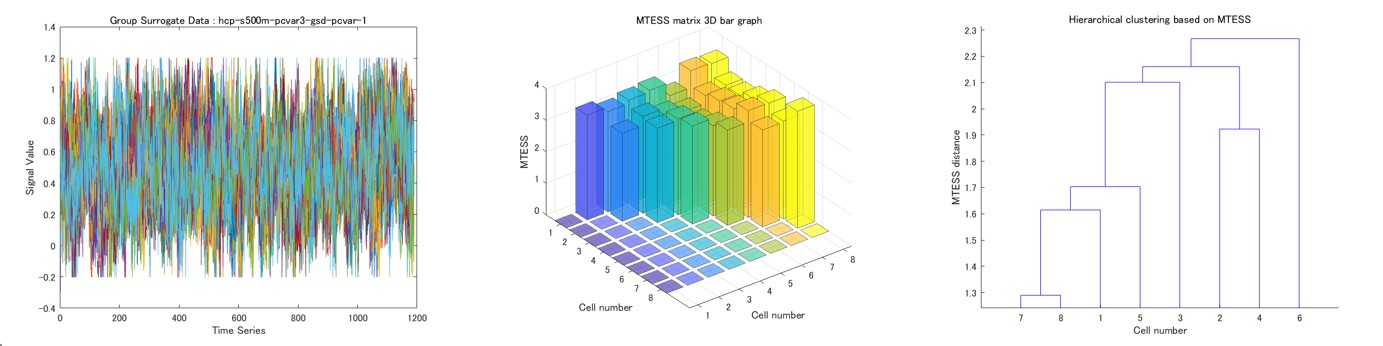
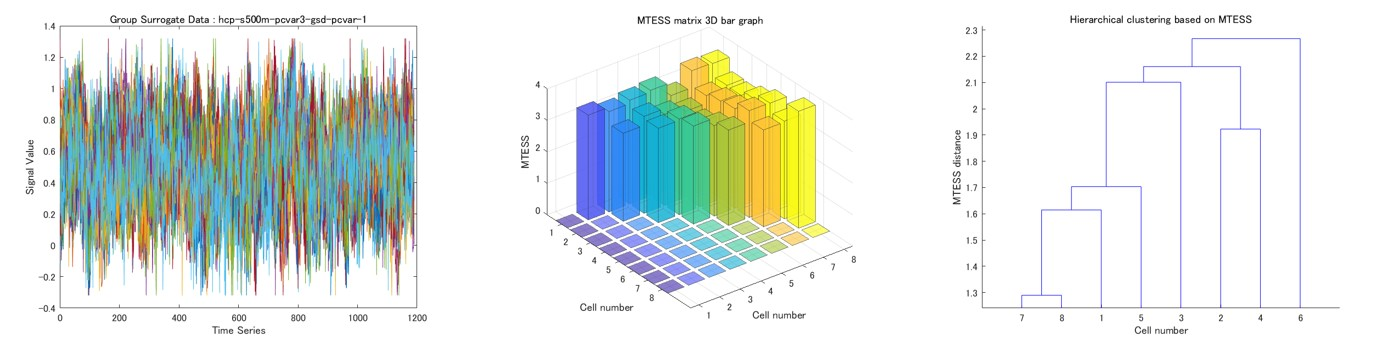
fixed range option.

diff --git a/mtess.m b/mtess.m
@@ -25,7 +25,7 @@ function mtess(varargin)
     % init command line input
     handles.commandError = 0;
     handles.csvFiles = {};
-    handles.range = NaN;
+    handles.range = 'auto';
     handles.nDft = 100;
     handles.pcc = 0;
     handles.cclag = NaN;
@@ -52,8 +52,7 @@ function mtess(varargin)
         end
         switch varargin{i}
             case {'--range'}
-                str = strsplit(varargin{i+1},':');
-                handles.range = [str2num(str{1}) str2num(str{2})];
+                handles.range = varargin{i+1};
                 i = i + 1;
             case {'--ndft'}
                 handles.nDft = str2num(varargin{i+1});
@@ -136,7 +135,7 @@ function showUsage()
     global exePath;
     global exeName;
     disp(['usage: ' exeName ' [options] file1.mat file2.mat ...']);
-    disp('  --range n1:n2       value range [n1, n2] for normalized mean and std dev (default:min and max of input data)');
+    disp('  --range type        input group value range (default:"auto", sigma:<num>, full:<num> or <min>:<max>)');
     disp('  --ndft num          DFT sampling <number> (even number) (default: 100)');
     disp('  --pcc type          Partial Cross-Correlation algorithm 0:auto, 1:PCC, 2:SV-PCC, 3:PC-PCC (dafault:0)');
     disp('  --cclag num         time lag <num> for Cross Correlation (default:8)');
@@ -231,8 +230,6 @@ function processInputFiles(handles)
     
     % check each multivariate time-series
     nodeNum = size(CX{1},1);
-    xmax = NaN;
-    xmin = NaN;
     for i = 1:length(CX)
         X = CX{i};
         
@@ -242,13 +239,6 @@ function processInputFiles(handles)
             CX{i} = X;
         end
 
-        if isnan(xmax) || xmax < max(X,[],'all')
-            xmax = max(X,[],'all');
-        end
-        if isnan(xmin) || xmin > min(X,[],'all')
-            xmin = min(X,[],'all');
-        end
-        
         % show input signals
         if handles.showInput > 0
             figure; plot(X.');
@@ -265,8 +255,36 @@ function processInputFiles(handles)
             colorbar;
         end
     end
-    if isnan(handles.range)
-        handles.range = [xmin, xmax];
+
+    % get group range
+    gRange = getGroupRange(CX);
+
+    % set group value range
+    range = NaN; % unknown. calc range based on X.
+    if strcmp(handles.range,'auto')
+        % 3 sigma of the whole group
+        range = [gRange.m - gRange.s * 3, gRange.m + gRange.s * 3];
+    elseif contains(handles.range,':')
+        str = split(handles.range,':');
+        if strcmp(str{1},'sigma') % <num> sigma of the whole group
+            if ~isempty(gRange)
+                n = str2num(str{2});
+                range = [gRange.m - gRange.s * n, gRange.m + gRange.s * n];
+            end
+        elseif strcmp(str{1},'full') % <num> * full min & max range of the whole group
+            if ~isempty(gRange)
+                n = (str2num(str{2}) - 1) / 2;
+                r = gRange.max - gRange.min;
+                range = [gRange.min - r*n, gRange.max + r*n];
+            end
+        else
+            % force [<num>, <num>] range
+            range = [str2num(str{1}),str2num(str{2})];
+        end
+    else
+        disp('bad range option. stop operation.');
+        showUsage();
+        return;
     end
     
     % calc MTESS
@@ -299,7 +317,7 @@ function processInputFiles(handles)
     else
         cache = names;
     end
-    [MTS, MTSp, nMTS, nMTSp, Means, Stds, Amps, FCs, PCs, CCs, PCCs] = calcMtess(CX, handles.range, handles.nDft, pccFunc, cclag, pcclag, cache);
+    [MTS, MTSp, nMTS, nMTSp, Means, Stds, Amps, FCs, PCs, CCs, PCCs] = calcMtess(CX, range, handles.nDft, pccFunc, cclag, pcclag, cache);
 
     % output result matrix files
     saveResultFiles(handles, MTS, MTSp, nMTS, nMTSp, savename);

diff --git a/gsdgm.m b/gsdgm.m
@@ -326,9 +326,9 @@ function processInputFiles(handles)
         % set output value range
         range = NaN; % unknown. calc range based on X.
         if strcmp(handles.range,'auto')
-            % 3.6 sigma of the whole group
+            % 4.2 sigma of the whole group
             if ~isempty(gRange)
-                range = [gRange.m - gRange.s * 3.6, gRange.m + gRange.s * 3.6];
+                range = [gRange.m - gRange.s * 4.2, gRange.m + gRange.s * 4.2];
             end
         elseif strcmp(handles.range,'none')
             range = []; % empty. no range limit
